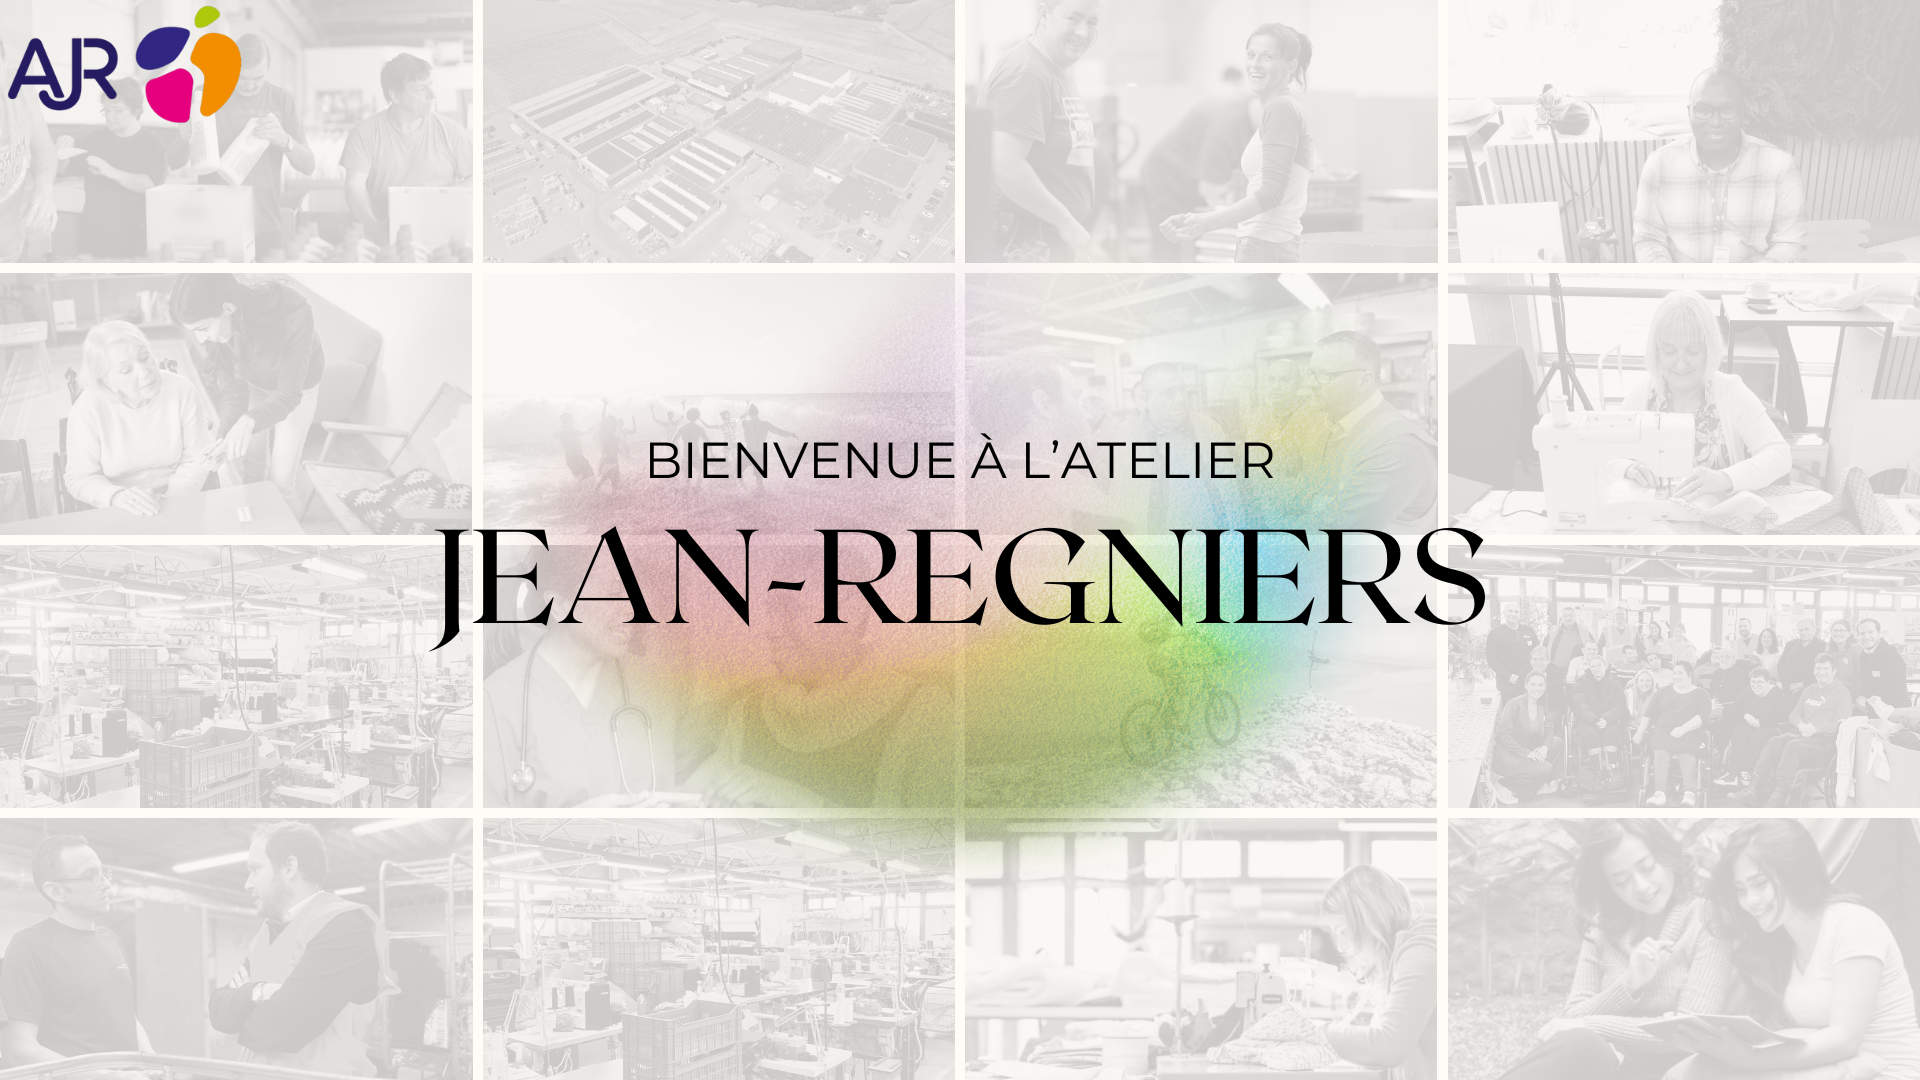
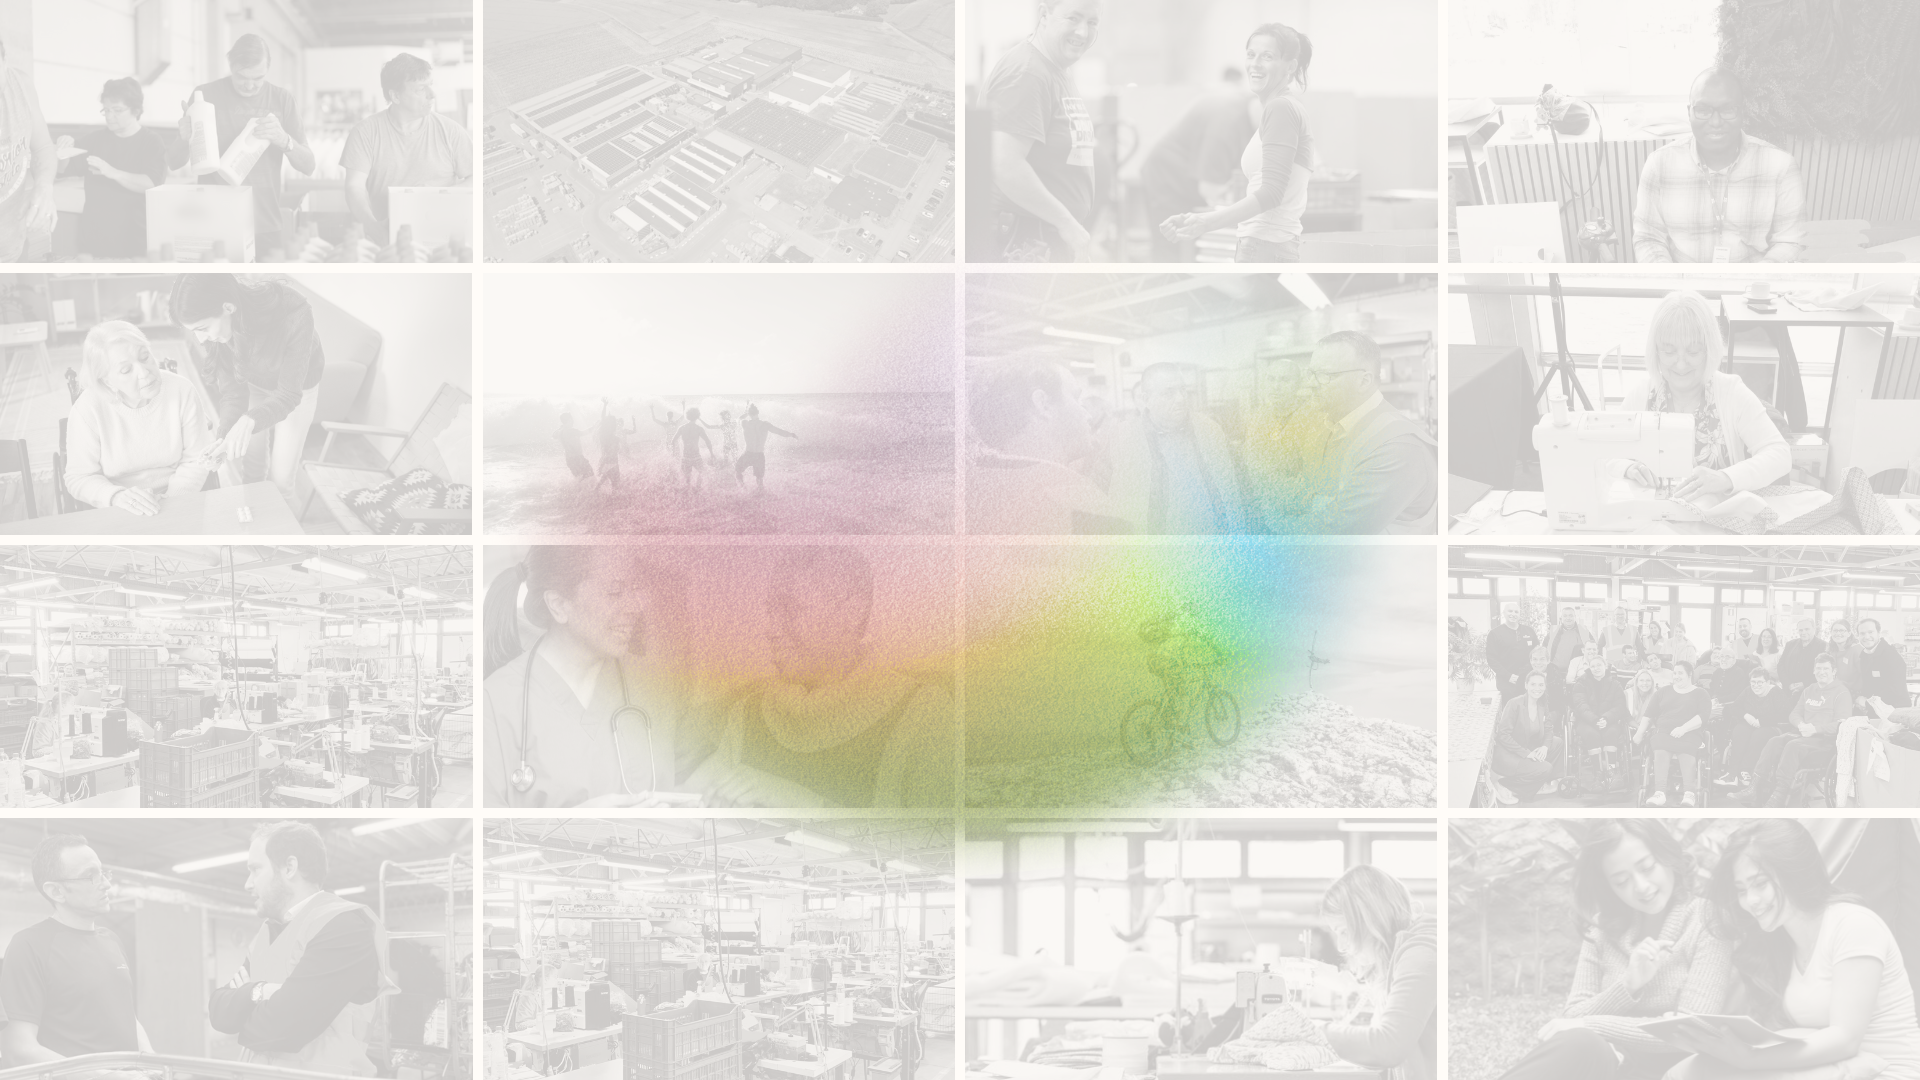
Add background and text to WelcomeSlide

Changed region(s): [[0.2188, 0.4889, 0.7812, 0.6111], [0.3438, 0.3972, 0.6562, 0.4583], [0.0, 0.0, 0.125, 0.1222]]

diff --git a/src/components/slides/WelcomeSlide.tsx b/src/components/slides/WelcomeSlide.tsx
@@ -4,8 +4,11 @@ export const WelcomeSlide = () => {
       {/* Background image */}
       <img src={welcomeBg} alt="Atelier Jean-Regniers" className="absolute inset-0 w-full h-full object-cover" />
       <div className="absolute inset-0 flex flex-col items-center justify-center z-10">
-        
-        
+        <h1 className="text-8xl font-display font-bold text-white text-center leading-tight tracking-wide drop-shadow-2xl">
+          BIENVENUE À L'ATELIER
+          <br />
+          JEAN REGNIERS
+        </h1>
       </div>
     </div>;
 };
